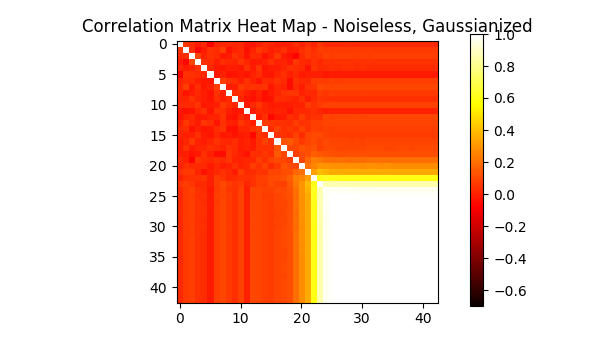
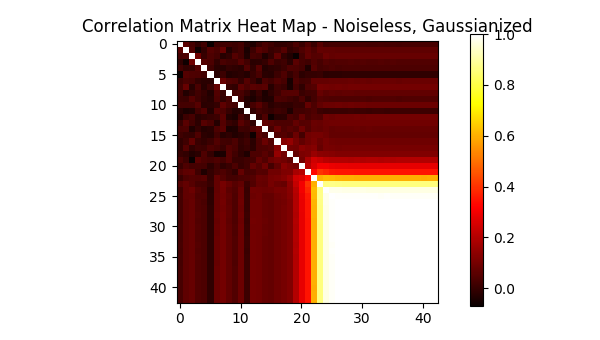
fixed vmin on corrmat.png and corrmat_gauss.png

diff --git a/Parallel Gaussianization/Normal Maps/SNR_norm.py b/Parallel Gaussianization/Normal Maps/SNR_norm.py
@@ -158,7 +158,7 @@ fig2 = plt.figure(figsize=(6, 3.4))
 
 ax = fig2.add_subplot(111)
 ax.set_title('Correlation Matrix Heat Map - Noiseless, Ungaussianized')
-plt.imshow(np.array(correl), cmap = 'hot')#, vmin = -0.7, vmax = 1.0)
+plt.imshow(np.array(correl), cmap = 'hot', vmin = -0.07, vmax = 1.0)
 ax.set_aspect('equal')
 
 cax = fig2.add_axes([0.12, 0.1, 0.78, 0.8])

diff --git a/Parallel Gaussianization/Normal Maps/gauss_SNR_norm.py b/Parallel Gaussianization/Normal Maps/gauss_SNR_norm.py
@@ -196,7 +196,7 @@ fig2 = plt.figure(figsize=(6, 3.4))
 
 ax = fig2.add_subplot(111)
 ax.set_title('Correlation Matrix Heat Map - Noiseless, Gaussianized')
-plt.imshow(np.array(correl), cmap = 'hot', vmin = -0.7, vmax = 1.0)
+plt.imshow(np.array(correl), cmap = 'hot', vmin = -0.07, vmax = 1.0)
 ax.set_aspect('equal')
 
 cax = fig2.add_axes([0.12, 0.1, 0.78, 0.8])
